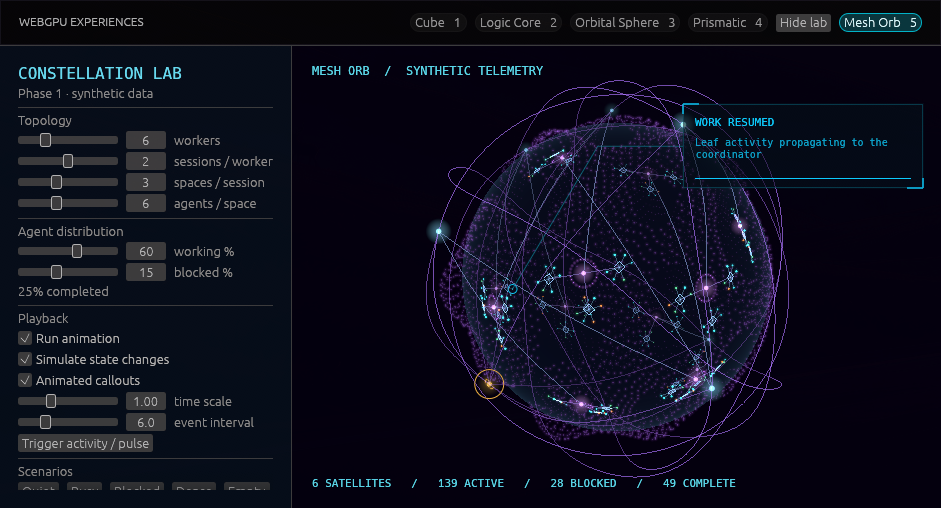
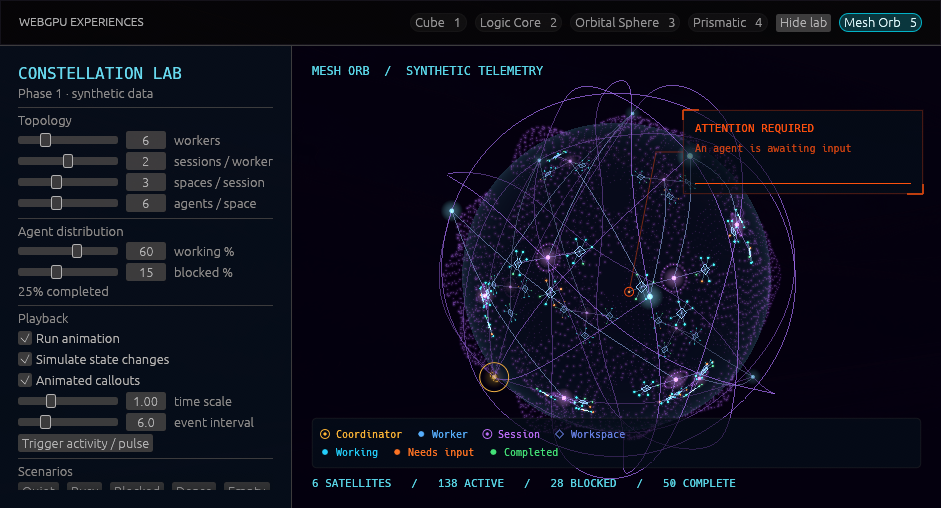
Add persistent scene color and shape key to mesh orb

Changed region(s): [[0.4315, 0.1476, 0.9862, 0.9449], [0.339, 0.8268, 0.4315, 0.9154]]

diff --git a/src/mesh_legend.rs b/src/mesh_legend.rs
@@ -1,0 +1,159 @@
+use egui::{Color32, FontId, Painter, Rect, Stroke, pos2, vec2};
+
+#[derive(Clone, Copy)]
+pub enum Marker {
+    Dot,
+    Ring,
+    Diamond,
+}
+
+pub struct Entry {
+    pub label: &'static str,
+    pub color: Color32,
+    pub marker: Marker,
+}
+
+pub const ENTRIES: [Entry; 7] = [
+    Entry {
+        label: "Coordinator",
+        color: Color32::from_rgb(255, 184, 55),
+        marker: Marker::Ring,
+    },
+    Entry {
+        label: "Worker",
+        color: Color32::from_rgb(87, 176, 255),
+        marker: Marker::Dot,
+    },
+    Entry {
+        label: "Session",
+        color: Color32::from_rgb(190, 112, 255),
+        marker: Marker::Ring,
+    },
+    Entry {
+        label: "Workspace",
+        color: Color32::from_rgb(103, 130, 232),
+        marker: Marker::Diamond,
+    },
+    Entry {
+        label: "Working",
+        color: Color32::from_rgb(35, 209, 255),
+        marker: Marker::Dot,
+    },
+    Entry {
+        label: "Needs input",
+        color: Color32::from_rgb(255, 116, 35),
+        marker: Marker::Dot,
+    },
+    Entry {
+        label: "Completed",
+        color: Color32::from_rgb(67, 227, 121),
+        marker: Marker::Dot,
+    },
+];
+
+pub struct Layout {
+    pub bounds: Rect,
+    cells: Vec<Rect>,
+}
+
+// Keep hierarchy and agent states on separate rows; wrap each group on narrow windows.
+pub fn layout(painter: &Painter, viewport: Rect) -> Layout {
+    let width = (viewport.width() - 40.0).max(1.0);
+    let inner_width = (width - 16.0).max(1.0);
+    let mut cells = Vec::with_capacity(ENTRIES.len());
+    let (mut x, mut y) = (0.0, 0.0);
+    for (i, entry) in ENTRIES.iter().enumerate() {
+        let text = painter.layout_no_wrap(entry.label.into(), FontId::monospace(10.0), entry.color);
+        let cell_width = (text.size().x + 20.0).min(inner_width);
+        if i == 4 || (x > 0.0 && x + cell_width > inner_width) {
+            x = 0.0;
+            y += 18.0;
+        }
+        cells.push(Rect::from_min_size(pos2(x, y), vec2(cell_width, 16.0)));
+        x += cell_width + 10.0;
+    }
+    let height = y + 32.0;
+    let bounds = Rect::from_min_size(
+        pos2(viewport.left() + 20.0, viewport.bottom() - 40.0 - height),
+        vec2(width, height),
+    );
+    for cell in &mut cells {
+        *cell = cell.translate(bounds.min.to_vec2() + vec2(8.0, 8.0));
+    }
+    Layout { bounds, cells }
+}
+
+pub fn draw(painter: &Painter, layout: &Layout) {
+    let bounds = layout.bounds;
+    painter.rect_filled(bounds, 4.0, Color32::from_rgba_unmultiplied(4, 12, 24, 215));
+    painter.rect_stroke(
+        bounds,
+        4.0,
+        Stroke::new(0.5, Color32::from_white_alpha(35)),
+        egui::StrokeKind::Inside,
+    );
+    for (entry, cell) in ENTRIES.iter().zip(&layout.cells) {
+        let center = cell.left_center() + vec2(5.0, 0.0);
+        match entry.marker {
+            Marker::Dot => {
+                painter.circle_filled(center, 2.8, entry.color);
+            }
+            Marker::Ring => {
+                painter.circle_stroke(center, 4.0, Stroke::new(1.0, entry.color));
+                painter.circle_filled(center, 1.5, entry.color);
+            }
+            Marker::Diamond => {
+                painter.add(egui::Shape::closed_line(
+                    vec![
+                        center + vec2(0.0, -4.0),
+                        center + vec2(4.0, 0.0),
+                        center + vec2(0.0, 4.0),
+                        center + vec2(-4.0, 0.0),
+                    ],
+                    Stroke::new(1.0, entry.color),
+                ));
+            }
+        }
+        painter.text(
+            cell.left_center() + vec2(16.0, 0.0),
+            egui::Align2::LEFT_CENTER,
+            entry.label,
+            FontId::monospace(10.0),
+            entry.color,
+        );
+    }
+}
+
+#[cfg(test)]
+mod tests {
+    use super::*;
+
+    #[test]
+    fn key_wraps_without_overlapping_or_leaving_the_viewport() {
+        let context = egui::Context::default();
+        for size in [vec2(280.0, 240.0), vec2(650.0, 460.0), vec2(1200.0, 200.0)] {
+            let viewport = Rect::from_min_size(pos2(45.0, 30.0), size);
+            let mut output = context.run_ui(
+                egui::RawInput {
+                    screen_rect: Some(viewport),
+                    ..Default::default()
+                },
+                |ui| {
+                    let key = layout(ui.painter(), viewport);
+                    let Layout { bounds, cells } = &key;
+                    assert!(viewport.contains_rect(*bounds));
+                    assert_eq!(cells.len(), ENTRIES.len());
+                    for (i, cell) in cells.iter().enumerate() {
+                        assert!(bounds.contains_rect(*cell));
+                        for other in &cells[i + 1..] {
+                            assert!(!cell.intersects(*other));
+                        }
+                    }
+                    assert!(cells[4].top() > cells[3].top());
+                    draw(ui.painter(), &key);
+                },
+            );
+            output.textures_delta.clear();
+        }
+    }
+}

diff --git a/src/mesh_orb.rs b/src/mesh_orb.rs
@@ -365,7 +365,13 @@ pub fn overlay(ui: &egui::Ui, sim: &Simulation, rect: egui::Rect) {
             egui::Stroke::new(1.0, egui::Color32::from_rgb(242, 177, 70)),
         );
     }
-    if !sim.callouts || rect.width() < 260.0 || rect.height() < 200.0 {
+    let legend = crate::mesh_legend::layout(&painter, rect);
+    // Leave the key and footer readable even while event cards drift.
+    let cards_top = rect.top() + 55.0;
+    let cards_bottom = legend.bounds.top() - 20.0;
+    let travel = cards_bottom - cards_top - 84.0;
+    if !sim.callouts || rect.width() < 260.0 || travel < 18.0 {
+        crate::mesh_legend::draw(&painter, &legend);
         return;
     }
     for (slot, event) in sim.events.iter().rev().enumerate() {
@@ -387,10 +393,8 @@ pub fn overlay(ui: &egui::Ui, sim: &Simulation, rect: egui::Rect) {
         } else {
             rect.right() - width - 18.0
         };
-        let y = rect.top()
-            + 55.0
-            + slot as f32 * (rect.height() - 150.0).max(0.0) / 3.0
-            + (sim.time * 0.24 + slot as f32).sin() * 9.0;
+        let y =
+            cards_top + slot as f32 * travel / 2.0 + (sim.time * 0.24 + slot as f32).sin() * 9.0;
         let card = egui::Rect::from_min_size(
             egui::pos2(x + (1.0 - reveal) * 22.0, y),
             egui::vec2(width, 84.0),
@@ -462,6 +466,8 @@ pub fn overlay(ui: &egui::Ui, sim: &Simulation, rect: egui::Rect) {
             egui::Stroke::new(1.0, col),
         );
     }
+    // Paint last so moving leader lines cannot obscure the key.
+    crate::mesh_legend::draw(&painter, &legend);
 }
 
 #[cfg(test)]

diff --git a/src/mesh_debug.rs b/src/mesh_debug.rs
@@ -46,7 +46,14 @@ pub fn draw(root: &mut egui::Ui, sim: &mut Simulation) {
                 ui.separator();
                 let c=sim.counts();
                 ui.label(format!("{} sessions · {} workspaces\n{} agents",sim.settings.nodes*sim.settings.sessions,sim.settings.nodes*sim.settings.sessions*sim.settings.workspaces,c.iter().sum::<usize>()));
-                for (text,color) in [("● Coordinator / gold",Color32::from_rgb(255,184,55)),("● Worker / ice blue",Color32::from_rgb(87,176,255)),("◎ Session / violet",Color32::from_rgb(190,112,255)),("◇ Workspace / indigo",Color32::from_rgb(103,130,232)),("● Working / cyan",Color32::from_rgb(35,209,255)),("● Blocked / amber",Color32::from_rgb(255,116,35)),("● Completed / green",Color32::from_rgb(67,227,121))] {ui.colored_label(color,text);}
+                for entry in &crate::mesh_legend::ENTRIES {
+                    let marker = match entry.marker {
+                        crate::mesh_legend::Marker::Dot => "●",
+                        crate::mesh_legend::Marker::Ring => "◎",
+                        crate::mesh_legend::Marker::Diamond => "◇",
+                    };
+                    ui.colored_label(entry.color, format!("{marker} {}", entry.label));
+                }
                 ui.separator(); ui.small("H hides this panel. Space pauses. P triggers activity.\nCounts reshape the scene over 1.2 s; pulses travel leaf → session → worker → coordinator in 3 s.");
             });
         });

diff --git a/src/ui.rs b/src/ui.rs
@@ -183,4 +183,41 @@ mod tests {
             assert!(rect.width() > 0.0 && rect.height() > 0.0);
         }
     }
+
+    #[test]
+    fn scene_key_is_painted_with_the_lab_hidden_and_callouts_disabled() {
+        fn contains_text(shape: &egui::Shape, label: &str) -> bool {
+            match shape {
+                egui::Shape::Text(text) => text.galley.text() == label,
+                egui::Shape::Vec(shapes) => shapes.iter().any(|s| contains_text(s, label)),
+                _ => false,
+            }
+        }
+        let context = egui::Context::default();
+        let mut sim = Simulation::default();
+        sim.controls = false;
+        sim.callouts = false;
+        let mut scene = Experience::MeshOrb;
+        let mut output = context.run_ui(
+            egui::RawInput {
+                screen_rect: Some(Rect::from_min_size(
+                    egui::Pos2::ZERO,
+                    Vec2::new(650.0, 460.0),
+                )),
+                ..Default::default()
+            },
+            |root| {
+                draw(root, &mut scene, 0.0, &mut sim);
+            },
+        );
+        for entry in &crate::mesh_legend::ENTRIES {
+            assert!(
+                output
+                    .shapes
+                    .iter()
+                    .any(|s| contains_text(&s.shape, entry.label))
+            );
+        }
+        output.textures_delta.clear();
+    }
 }

diff --git a/src/main.rs b/src/main.rs
@@ -1,6 +1,7 @@
 mod cube;
 mod logic_core;
 mod mesh_debug;
+mod mesh_legend;
 mod mesh_model;
 mod mesh_orb;
 mod mesh_territory;

diff --git a/docs/orb-mesh-phase1.md b/docs/orb-mesh-phase1.md
@@ -53,6 +53,10 @@ to cover Windows, macOS and Linux. There is no browser or external renderer.
   between rear and front layers; rear clusters remain visible through the globe.
   Depth changes preserve status hues and feather across the middle of the globe.
   The original Orbital Sphere retains its original glow and pixel-size behavior.
+- A compact color/shape key stays visible in the scene when the lab panel is
+  hidden. Hierarchy and agent states occupy separate rows that wrap on narrow
+  windows. Event cards leave room for the key and footer; very short viewports
+  suppress cards when there is insufficient room.
 - Anonymous callouts track a projected 3D anchor with elbow leaders, corner
   brackets, a typewriter heading, scan line, entrance easing and fade out.
   Cards drift as flat screen-facing overlays; perspective 3D cards and richer
@@ -78,7 +82,12 @@ Zero workers leaves only the coordinator and ambient lattice. Zero sessions,
 workspaces or agents produces a valid truncated hierarchy. Arrival/departure and
 state changes generate callouts; the rolling queue is capped at three and
 expires after six seconds. One pulse per worker is retained, and removal of its
-source cancels the pulse. The coordinator is separate from all worker counts.
+source cancels the pulse. Multiple blocked agents remain amber simultaneously,
+and the blocked total includes every one of them. "Needs input" in the key is
+this prototype's blocked state. Callout expiration does not resolve an agent;
+a fourth event replaces the oldest card, and a newer event on the same worker
+replaces its pulse. There is no persistent per-agent input notification queue
+or input interaction yet. The coordinator is separate from all worker counts.
 
 ## Structure and checks
 
@@ -88,6 +97,7 @@ source cancels the pulse. The coordinator is separate from all worker counts.
 - `mesh_orb.rs`: pure geometry, 3D hierarchy paths, pulse stages, camera and
   projected callouts.
 - `mesh_debug.rs`: control panel bound to the model.
+- `mesh_legend.rs`: shared color/shape key and responsive scene overlay.
 - `orbital_sphere.rs` / `.wgsl`: shared instanced GPU particles and colored lines.
 
 ```sh
@@ -140,3 +150,16 @@ agent separation in the default view. Format/clippy and the optimized Linux
 build passed; the refreshed native capture illustrates the iteration. Dense
 scenes and clusters viewed edge-on can still overlap in projection; this does not
 claim per-agent legibility for maximum synthetic counts in a small window.
+
+
+## Scene color key (2026-10-06)
+
+Added a persistent two-group hierarchy/state key, shared with the lab panel.
+The scene key wraps to fit narrow windows and is painted above moving leaders;
+event cards reserve its footer area. Fifteen tests, formatting, strict all-target
+clippy and the optimized Linux build passed. New checks exercise key layout at
+narrow/wide/short sizes and verify every label is rendered with both the lab and
+callouts disabled. Native Linux rendering was inspected and the capture updated.
+Windows/macOS native acceptance remains open. Simultaneous blocked-agent state,
+the three-event/six-second callout window and per-worker pulse behavior are
+unchanged; this iteration adds no input notification queue or Herdr integration.
